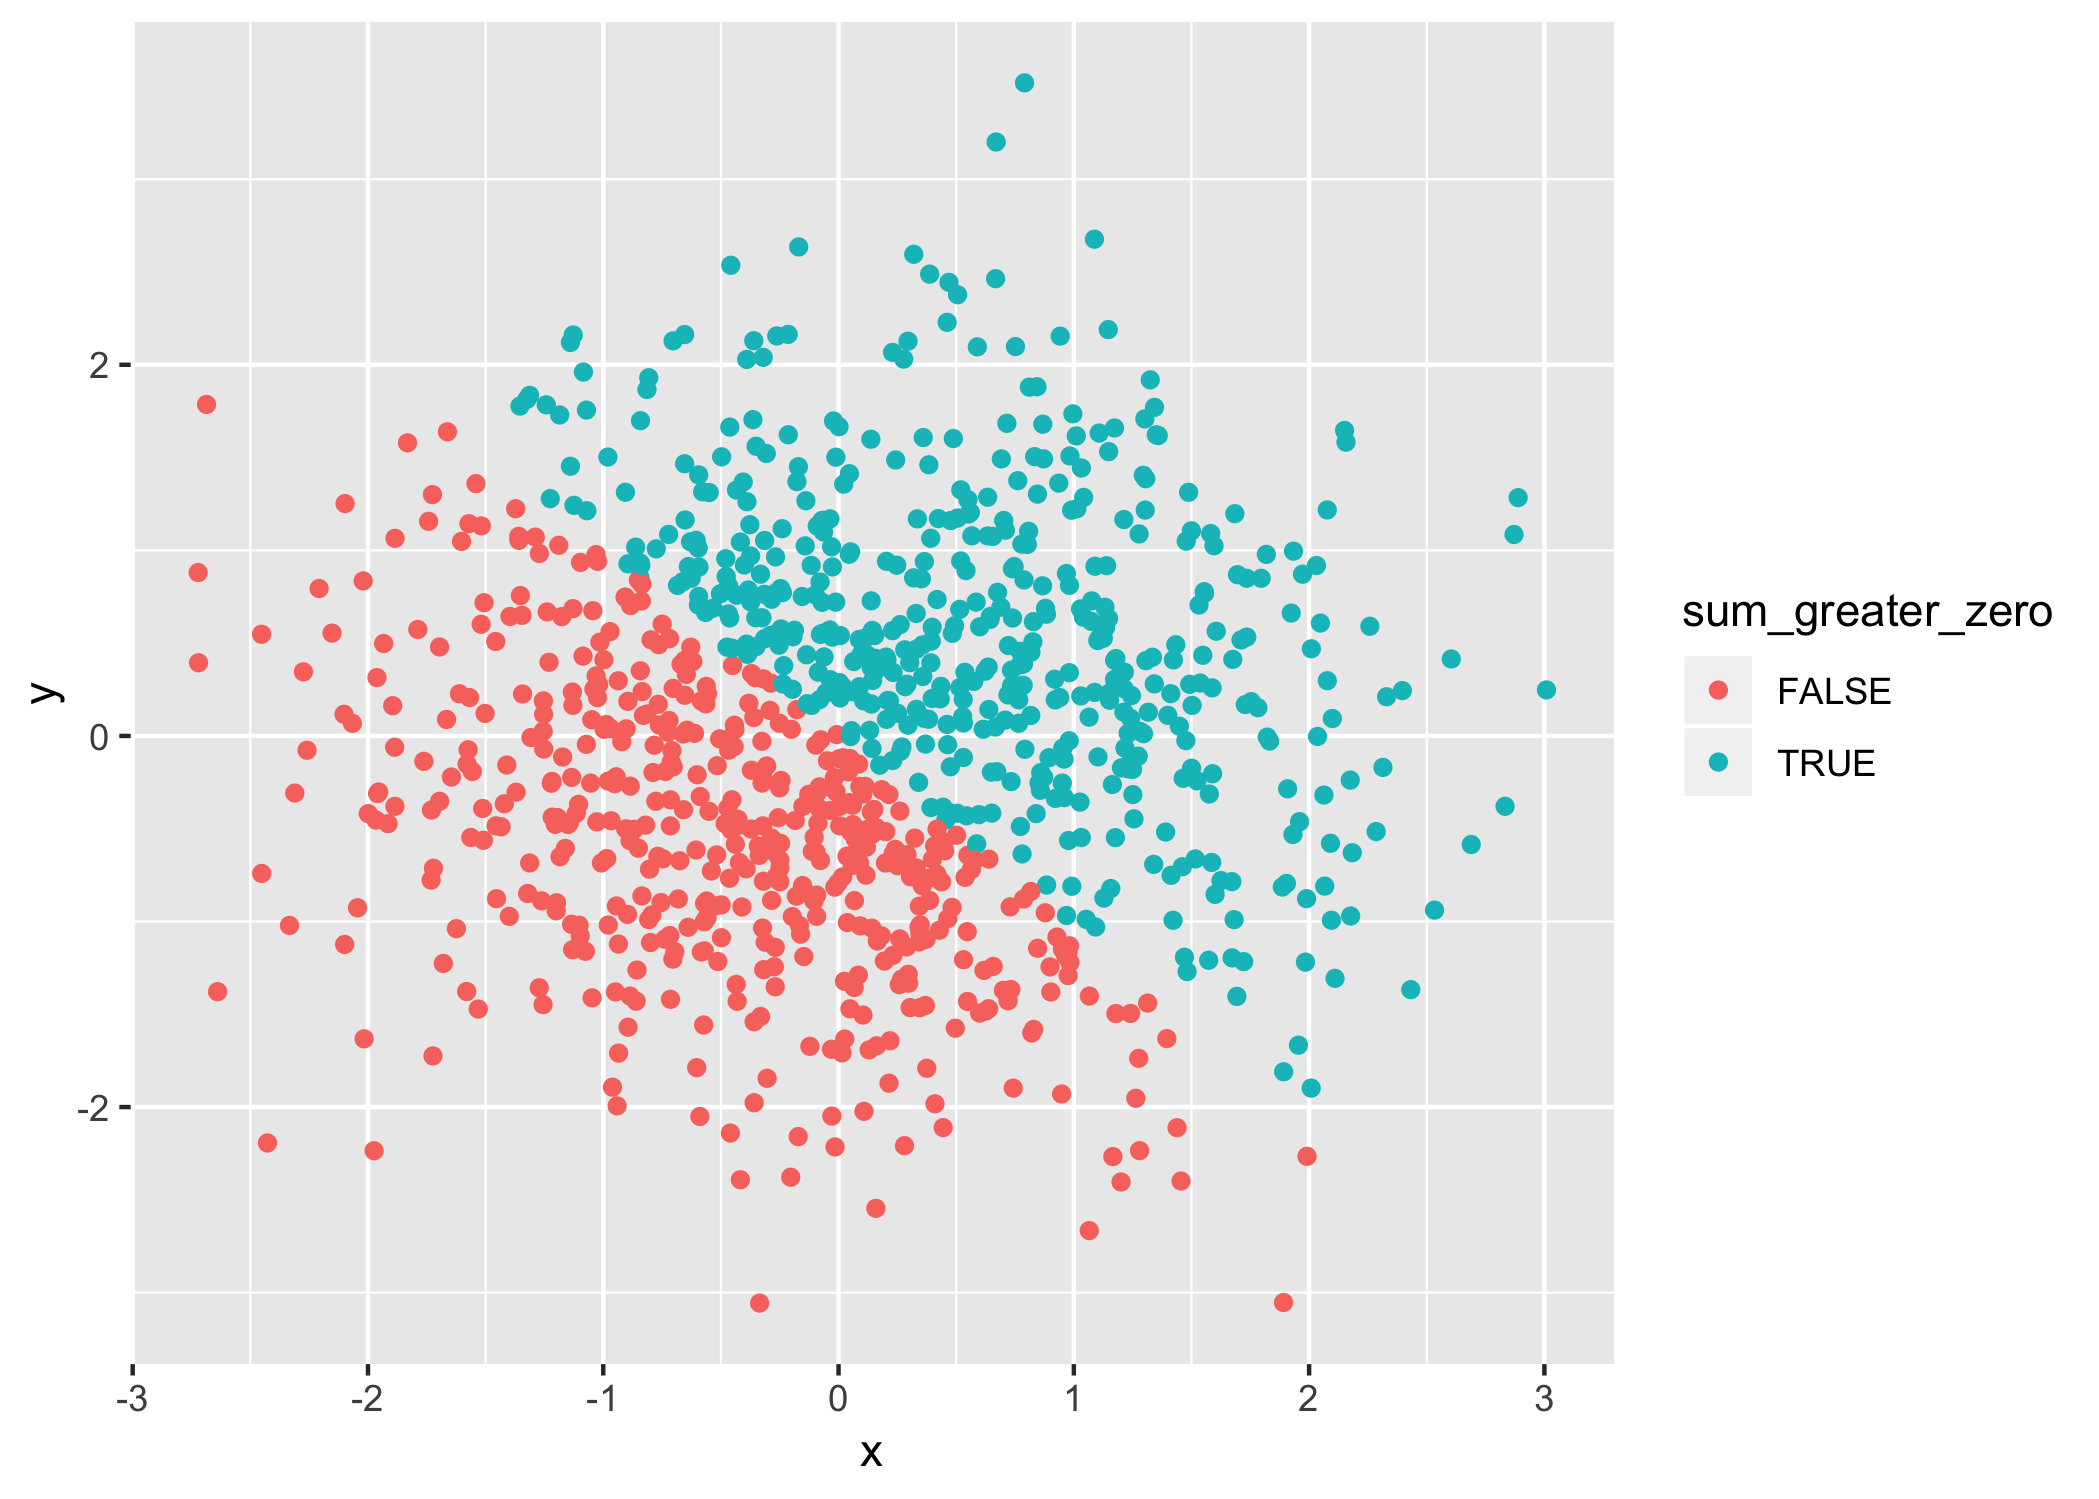
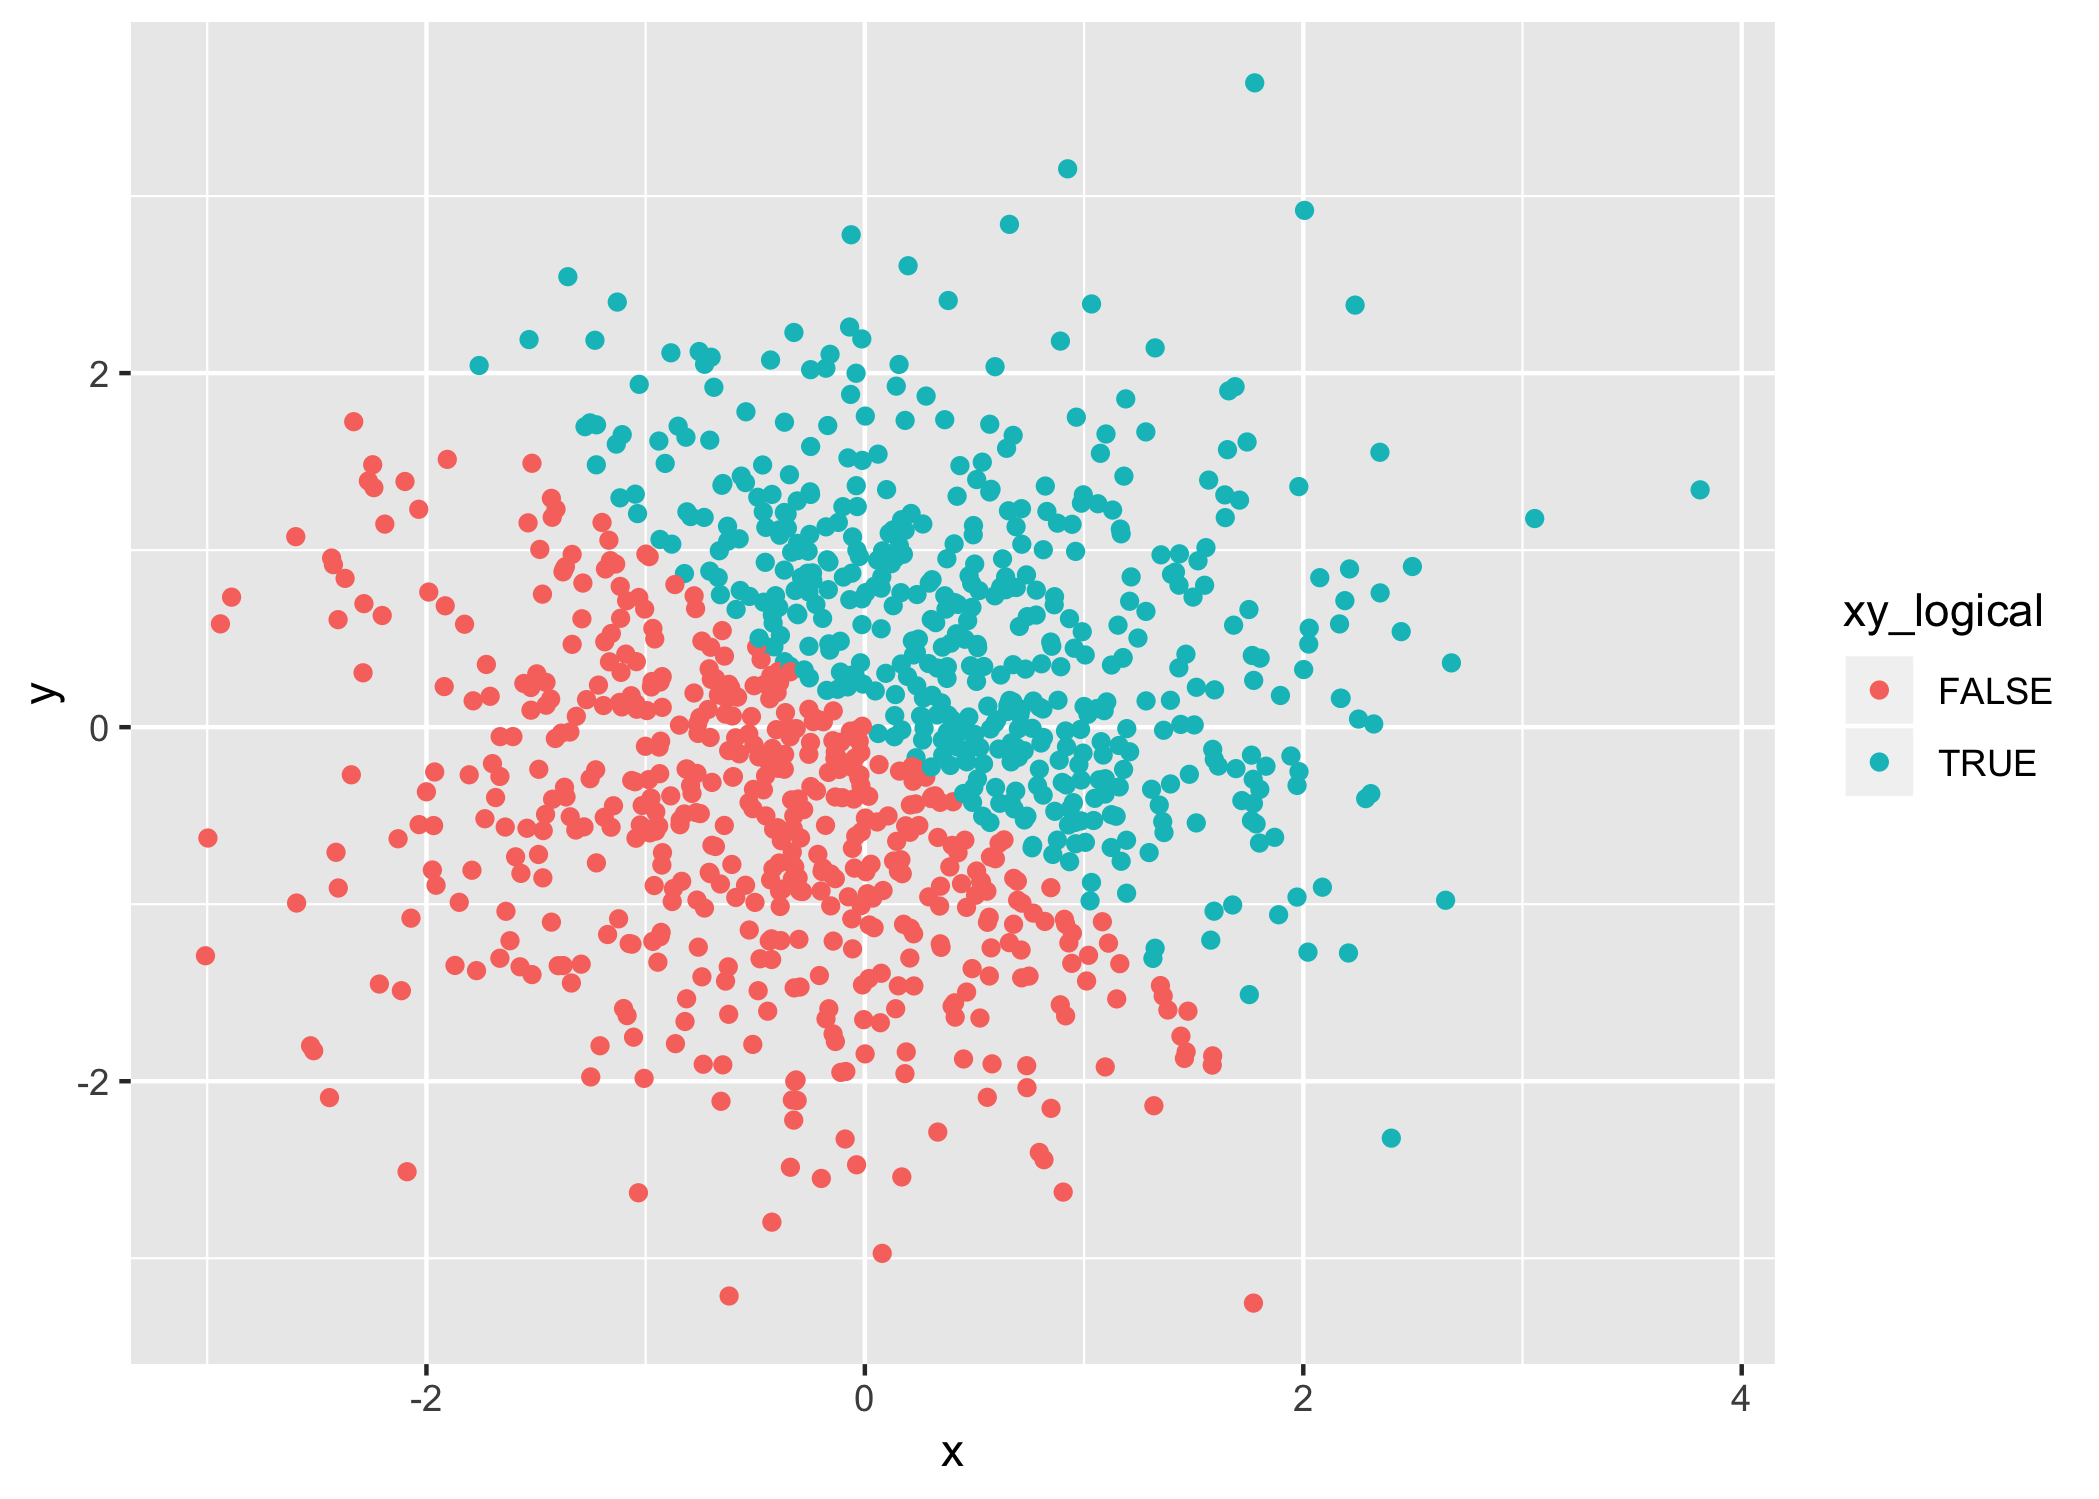
modify the variable names and some update on creating dataframe

diff --git a/p8105_hw_yx2510.md b/p8105_hw_yx2510.md
@@ -5,12 +5,33 @@ Yi Xiao
 
 This assignment reinforces ideas in the building blocks topic.
 
+#### Load packages first:
+
+``` r
+library(tidyverse)
+```
+
+    ## ── Attaching packages ────────────────────────────────────────────────────── tidyverse 1.2.1 ──
+
+    ## ✔ ggplot2 3.0.0     ✔ purrr   0.2.5
+    ## ✔ tibble  1.4.2     ✔ dplyr   0.7.6
+    ## ✔ tidyr   0.8.1     ✔ stringr 1.3.1
+    ## ✔ readr   1.1.1     ✔ forcats 0.3.0
+
+    ## ── Conflicts ───────────────────────────────────────────────────────── tidyverse_conflicts() ──
+    ## ✖ dplyr::filter() masks stats::filter()
+    ## ✖ dplyr::lag()    masks stats::lag()
+
+``` r
+library(ggplot2)
+```
+
 *Problem 1*
 ===========
 
 This problem focuses on variable types and coercion
 
-#### Here's a **code chunk** that create a data frame with:
+#### 1. Here's a **code chunk** that create a data frame with:
 
 -   A random sample of size 10 from a uniform\[0, 5\] distribution
 
@@ -22,70 +43,78 @@ This problem focuses on variable types and coercion
 
 ``` r
 set.seed(1)
-samp_uni <- runif(10, min = 0, max = 5)
-samp_compare <- samp_uni > 2
-samp_name <- c("ab","zb","c7y","zd","ab","f","g","h","i","k")
-samp_factor <- factor(c(1,2,3,1,2,3,2,1,3,2))
-all_data <- data.frame(samp_uni, samp_compare, samp_name, samp_factor)
-all_data
+pr1_df = tibble(
+    vec_numeric = runif(10, min = 0, max = 5),
+    vec_logical = vec_numeric > 2,
+    vec_character = c("ab","zb","c7y","zd","ab","f","g","h","i","k"),
+    vec_factor = factor(c("F","F","M","F","M","M","M","F","M","F"))
+)
 ```
 
-    ##     samp_uni samp_compare samp_name samp_factor
-    ## 1  1.3275433        FALSE        ab           1
-    ## 2  1.8606195        FALSE        zb           2
-    ## 3  2.8642668         TRUE       c7y           3
-    ## 4  4.5410389         TRUE        zd           1
-    ## 5  1.0084097        FALSE        ab           2
-    ## 6  4.4919484         TRUE         f           3
-    ## 7  4.7233763         TRUE         g           2
-    ## 8  3.3039890         TRUE         h           1
-    ## 9  3.1455702         TRUE         i           3
-    ## 10 0.3089314        FALSE         k           2
-
-The **mean** of samp\_uni and samp\_compare is **2.7575694** and **0.6** respectively, however the mean of other two variables are **NA** and **NA** because the argument of the mean function can only be numeric or logical.
-
-#### Here's a **code chunk** that convert logical, character, and factor to numeric:
+#### 2. Here is a \*\* code chunk \*\* that takes the mean of each variable in the dataframe:
 
 ``` r
-as.numeric(samp_compare)
-as.numeric(samp_name)
-as.numeric(samp_factor)
+  mean(pr1_df$vec_numeric)
 ```
 
-When convert logical to numeric, TRUE was coverted to 1 and False to 0. While NA was generated by character-to-numerical coercion. The same factors were converted to the same numericals.
+    ## [1] 2.757569
+
+``` r
+  mean(pr1_df$vec_logical)
+```
+
+    ## [1] 0.6
+
+``` r
+  mean(pr1_df$vec_character)
+```
+
+    ## Warning in mean.default(pr1_df$vec_character): argument is not numeric or
+    ## logical: returning NA
+
+    ## [1] NA
+
+``` r
+  mean(pr1_df$vec_factor)
+```
+
+    ## Warning in mean.default(pr1_df$vec_factor): argument is not numeric or
+    ## logical: returning NA
+
+    ## [1] NA
+
+When the mean function was applied to the numeric and logical variable, the mean of those two varaibles were returned successfully. However, NA was returned when the function was applied to character and factor variables. This is because the argument of mean function can only be numerical and logical, where it will convert TRUE to 1 and FALSE to 0.
+
+#### 3. Here's a **code chunk** that convert logical, character, and factor to numeric:
+
+``` r
+as.numeric(pr1_df$vec_logical)
+as.numeric(pr1_df$vec_character)
+as.numeric(pr1_df$vec_factor)
+```
+
+During the logical-to-numerical convert, TRUE was coverted to 1 and False to 0, while NA was generated by character-to-numerical coercion. Factors were converted into numericals according to the levels.
 
 #### Here is a **code chunk** that convert character to factor to numeric:
 
 ``` r
-# 1. character to factor
-as.factor(samp_name)
-##  [1] ab  zb  c7y zd  ab  f   g   h   i   k  
-## Levels: ab c7y f g h i k zb zd
 
-# 2.character to numeric
-as.numeric(samp_name)
-##  [1] NA NA NA NA NA NA NA NA NA NA
-
-# character to factor then to numeric
-as.numeric(as.factor(samp_name))
+as.numeric(as.factor(pr1_df$vec_character))
 ##  [1] 1 8 2 9 1 3 4 5 6 7
 ```
 
-When converting character to factor: each element with different name becomes a new level of factor; when converting character to numeric: NA was generated; when converting character to factor then to numeric: numeric was assigned according to alphabetic order.
+First character was converted to factor: each element with different name becomes a new level of factor. Then factor was further converted into numeric: integers were assigned according to alphabetic order.
 
 #### Here's a **code chunk** that convert factor to character to numeric:
 
 ``` r
-# 1. factor to character
-as.character(samp_factor)
-##  [1] "1" "2" "3" "1" "2" "3" "2" "1" "3" "2"
-# 2. factor to numerical
-as.numeric(samp_factor)
-##  [1] 1 2 3 1 2 3 2 1 3 2
-# 3. factor to character then to numerical 
-as.numeric(as.character(samp_factor))
-##  [1] 1 2 3 1 2 3 2 1 3 2
+ 
+as.numeric(as.character(pr1_df$vec_factor))
+## Warning: NAs introduced by coercion
+##  [1] NA NA NA NA NA NA NA NA NA NA
 ```
+
+NA was introduced during character-to-numeric coercion.
 
 *Problem 2*
 ===========
@@ -105,22 +134,22 @@ This problem focuses on plotting and the use of inline R code.
 -   A factor vector created by coercing the above logical vector
 
 ``` r
-set.seed(2)
-x <- rnorm(1000)
-set.seed(3)
-y <-rnorm(1000)
-sum_greater_zero <- x + y > 0
-numer_greater_zero <- as.numeric(sum_greater_zero)
-sum_group <- as.factor(numer_greater_zero)
-all_data2 <- data.frame(x, y, sum_greater_zero, numer_greater_zero, sum_group)
+set.seed(1)
+pr2_df = tibble(
+        x = rnorm(1000),
+        y = rnorm(1000),
+        xy_logical = x + y > 0,
+        xy_numeric = as.numeric(xy_logical),
+        xy_factor = factor(xy_numeric)
+)
 ```
 
--   The size of the dataset: **1000**
+-   The size of the dataset: **1000** rows and **5** colunmns.
 
--   The mean and median of x: **0.0619987** and **0.0501354**
+-   The mean and median of x: **-0.0116481** and **-0.0353242**
 
 -   The proportion of cases for which the logical vector is TRUE:
-    **0.504**
+    **0.49**
 
 #### Here's a **code chunk** that create a scatterplot:
 
@@ -128,10 +157,10 @@ all_data2 <- data.frame(x, y, sum_greater_zero, numer_greater_zero, sum_group)
 
 ``` r
 library(ggplot2)
-ggplot(all_data2, aes(x = x, y = y)) + geom_point(aes(colour = sum_greater_zero))
+ggplot(pr2_df, aes(x = x, y = y)) + geom_point(aes(colour = xy_logical))
 ```
 
-![](p8105_hw_yx2510_files/figure-markdown_github/unnamed-chunk-5-1.png)
+![](p8105_hw_yx2510_files/figure-markdown_github/unnamed-chunk-7-1.png)
 
 ``` r
 ggsave("myplot1.png")
@@ -143,10 +172,10 @@ ggsave("myplot1.png")
 
 ``` r
 library(ggplot2)
-ggplot(all_data2, aes(x = x, y = y)) + geom_point(aes(colour = numer_greater_zero))
+ggplot(pr2_df, aes(x = x, y = y)) + geom_point(aes(colour = xy_numeric))
 ```
 
-![](p8105_hw_yx2510_files/figure-markdown_github/unnamed-chunk-6-1.png)
+![](p8105_hw_yx2510_files/figure-markdown_github/unnamed-chunk-8-1.png)
 
 ``` r
 ggsave("myplot2.png")
@@ -158,10 +187,10 @@ ggsave("myplot2.png")
 
 ``` r
 library(ggplot2)
-ggplot(all_data2, aes(x = x, y = y)) + geom_point(aes(colour = sum_group))
+ggplot(pr2_df, aes(x = x, y = y)) + geom_point(aes(colour = xy_factor))
 ```
 
-![](p8105_hw_yx2510_files/figure-markdown_github/unnamed-chunk-7-1.png)
+![](p8105_hw_yx2510_files/figure-markdown_github/unnamed-chunk-9-1.png)
 
 ``` r
 ggsave("myplot3.png")
